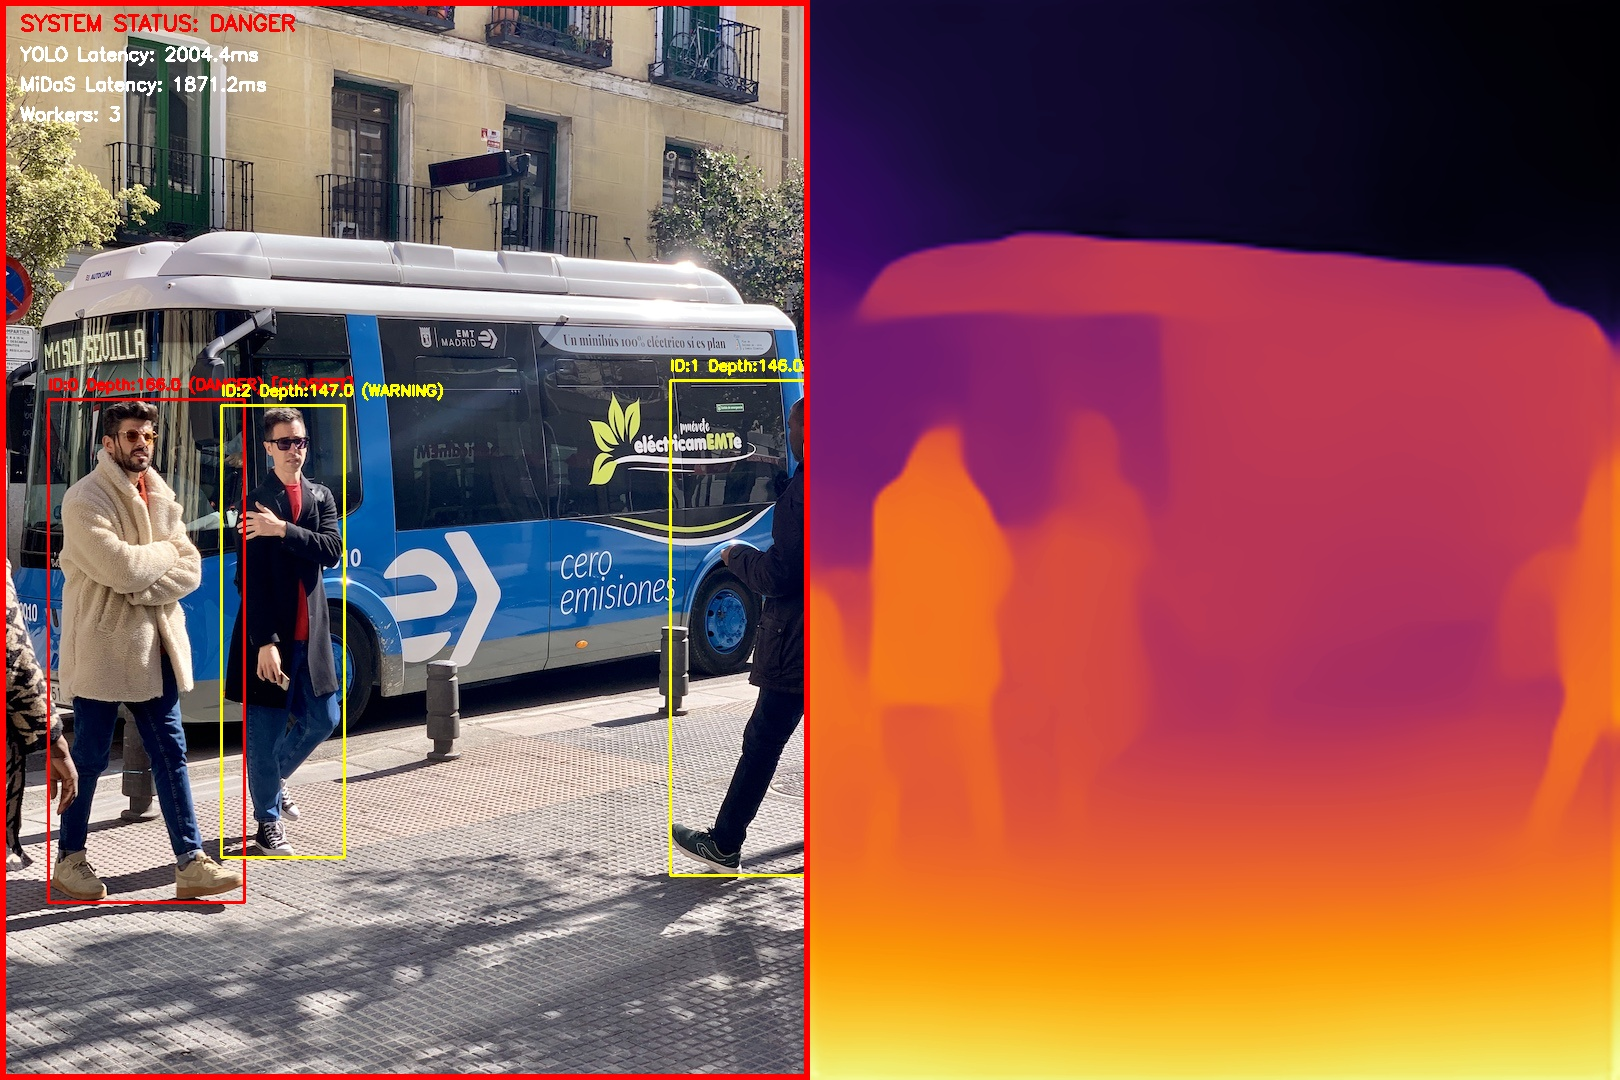
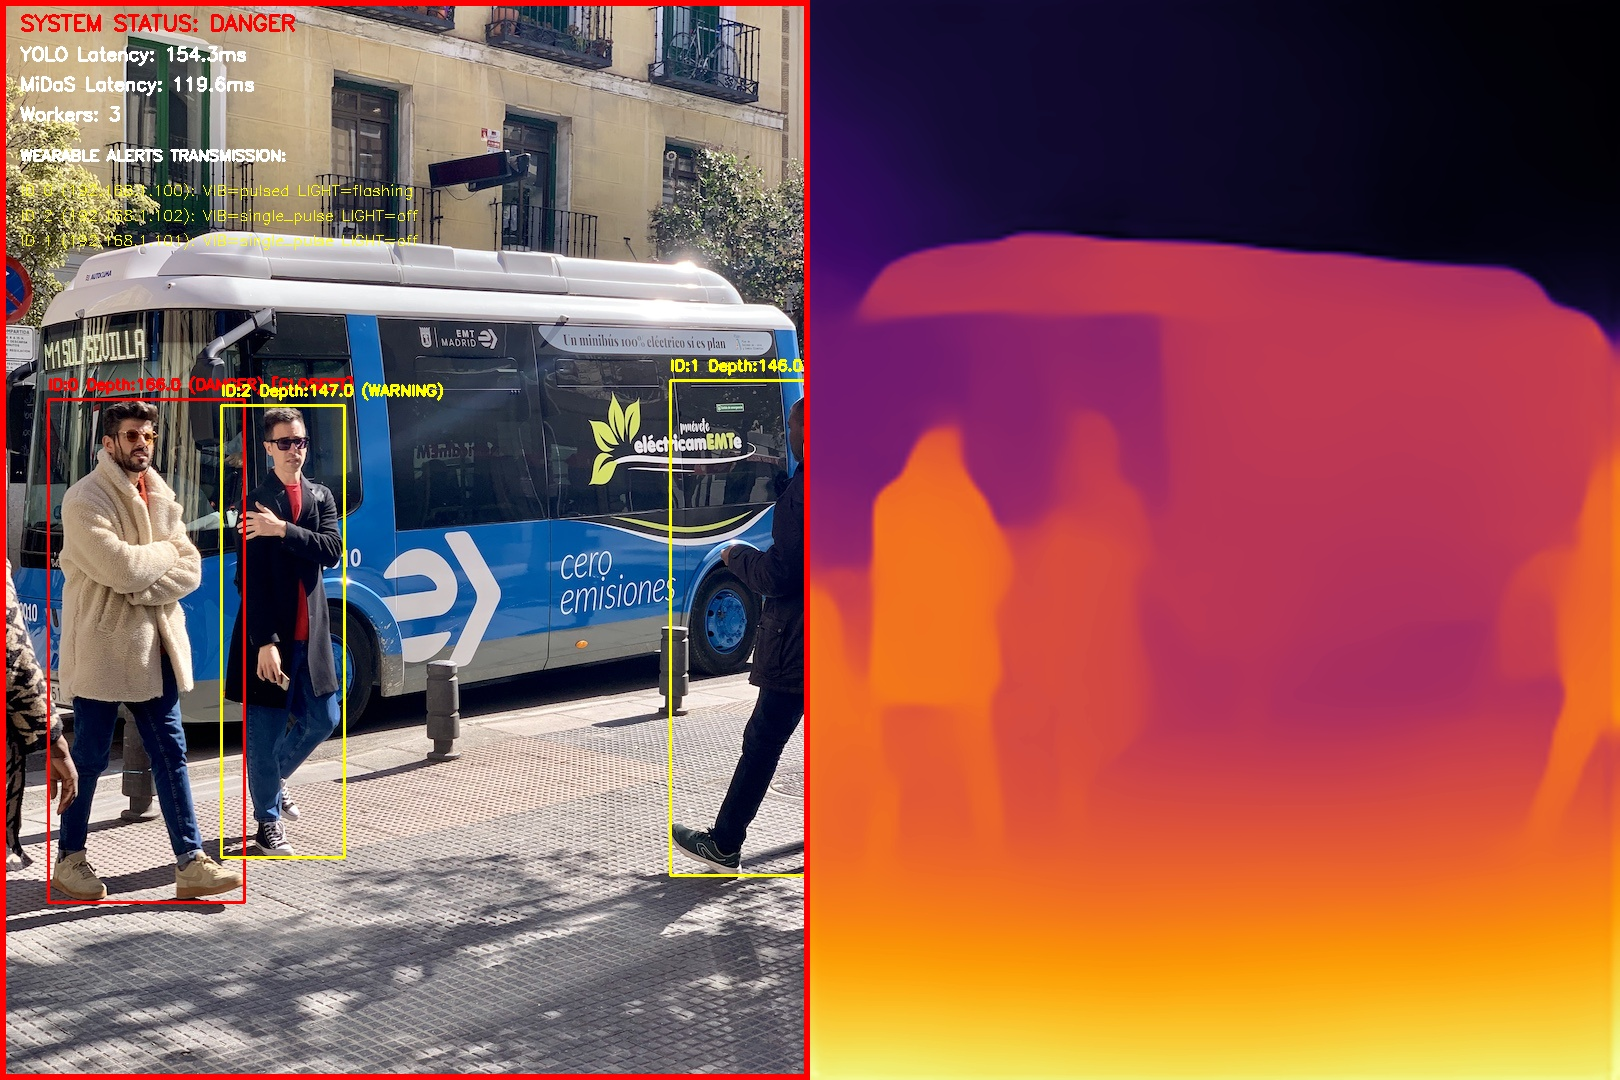
feat: add configuration schema, communication module, and pipeline verification script

Changed region(s): [[0.0, 0.1222, 0.2778, 0.2444], [0.0926, 0.0306, 0.1543, 0.0917]]

diff --git a/scripts/verify_pipeline.py b/scripts/verify_pipeline.py
@@ -99,12 +99,13 @@ def main():
         if fps_target <= 0:
             fps_target = 30
 
-    # Now load detector, depth, safety, and tracking models
+    # Now load detector, depth, safety, tracking, and communication models
     from modules.detector import WorkerDetector
     from modules.depth import DepthEstimator
     from modules.proximity import ProximityExtractor
     from modules.safety import SafetyZoneManager
     from modules.tracking import WorkerTracker
+    from modules.communication import WearableCommunicator
 
     detector = WorkerDetector(model_name=model_name, conf_threshold=conf_threshold, iou_threshold=iou_threshold, device=device)
     if not detector.load_model():
@@ -119,6 +120,7 @@ def main():
     proximity_extractor = ProximityExtractor()
     safety_manager = SafetyZoneManager(config.get("safety", {}))
     tracker = WorkerTracker(iou_threshold=0.3, depth_window_size=5, persistence_threshold=10)
+    wearable_communicator = WearableCommunicator(config.get("wearable", {}))
 
     # Run on static image
     if args.source != "webcam" and not args.source.endswith((".mp4", ".avi", ".mov", ".mkv")):
@@ -156,8 +158,9 @@ def main():
         # Evaluate overall system threat state
         system_state, actions = safety_manager.evaluate_system_state(workers)
 
-        # Annotate RGB frame with bounding boxes and safety zone labels
+        # Annotate RGB frame with bounding boxes, safety labels, and trigger wearable alerts
         annotated_frame = frame.copy()
+        simulated_alerts = []
         for i, worker in enumerate(workers):
             bbox = worker["bbox"]
             zone_info = safety_manager.evaluate_worker(worker)
@@ -170,7 +173,11 @@ def main():
             label = f"ID:{worker['id']} Depth:{worker['relative_depth']:.1f} ({zone_name}){tag}"
             cv2.putText(annotated_frame, label, (bbox[0], bbox[1] - 10), cv2.FONT_HERSHEY_SIMPLEX, 0.5, color, 2)
             
-            logger.info(f"Worker ID={worker['id']} | Zone={zone_name} | Relative-Depth={worker['relative_depth']:.1f} | Box={bbox} | Closest={is_closest}")
+            # Send simulated alert
+            alert = wearable_communicator.send_alert(worker["id"], zone_name)
+            simulated_alerts.append(alert)
+            
+            logger.info(f"Worker ID={worker['id']} | Zone={zone_name} | Depth={worker['relative_depth']:.1f} | IP={alert['device_ip']} | Vib={alert['vibration']} | Light={alert['light']} | Closest={is_closest}")
 
         # Apply static mock warning overlays for static visualization
         ah, aw = annotated_frame.shape[:2]
@@ -208,6 +215,15 @@ def main():
         cv2.putText(stacked, f"YOLO Latency: {latency_yolo:.1f}ms", (20, 60), cv2.FONT_HERSHEY_SIMPLEX, 0.6, (255, 255, 255), 2)
         cv2.putText(stacked, f"MiDaS Latency: {latency_midas:.1f}ms", (20, 90), cv2.FONT_HERSHEY_SIMPLEX, 0.6, (255, 255, 255), 2)
         cv2.putText(stacked, f"Workers: {len(workers)}", (20, 120), cv2.FONT_HERSHEY_SIMPLEX, 0.6, (255, 255, 255), 2)
+
+        # Draw Wearable alerts overlays
+        cv2.putText(stacked, "WEARABLE ALERTS TRANSMISSION:", (20, 160), cv2.FONT_HERSHEY_SIMPLEX, 0.5, (255, 255, 255), 2)
+        y_offset = 195
+        for alert in simulated_alerts:
+            if alert["zone"] != "SAFE":
+                alert_text = f"ID {alert['worker_id']} ({alert['device_ip']}): VIB={alert['vibration']} LIGHT={alert['light']}"
+                cv2.putText(stacked, alert_text, (20, y_offset), cv2.FONT_HERSHEY_SIMPLEX, 0.5, (0, 255, 255), 1)
+                y_offset += 25
 
         logger.info(f"YOLO latency: {latency_yolo:.1f}ms | MiDaS latency: {latency_midas:.1f}ms | Workers: {len(workers)} | System Status: {system_state}")
 
@@ -297,7 +313,8 @@ def main():
                 # Evaluate overall system threat state
                 system_state, actions = safety_manager.evaluate_system_state(workers)
 
-                # Annotate RGB frame with bounding boxes and safety zone labels
+                # Annotate RGB frame, trigger wearable alerts, and draw safety zone labels
+                simulated_alerts = []
                 for i, worker in enumerate(workers):
                     bbox = worker["bbox"]
                     zone_info = safety_manager.evaluate_worker(worker)
@@ -310,6 +327,10 @@ def main():
                     label = f"ID:{worker['id']} Depth:{worker['relative_depth']:.1f} ({zone_name}){tag}"
                     cv2.putText(frame, label, (bbox[0], bbox[1] - 10), 
                                 cv2.FONT_HERSHEY_SIMPLEX, 0.5, color, 2)
+                    
+                    # Trigger simulated wearable alert
+                    alert = wearable_communicator.send_alert(worker["id"], zone_name)
+                    simulated_alerts.append(alert)
                 
                 # Apply dynamic flashing overlays
                 flash_on = int(time.time() * 4) % 2 == 0
@@ -333,6 +354,7 @@ def main():
                 latency_midas = 0.0
                 system_state = "SAFE"
                 actions = {"sound_request": None, "log_request": False}
+                simulated_alerts = []
 
             # Colorize the cached/current depth map
             if cached_depth_map is not None:
@@ -369,6 +391,16 @@ def main():
             cv2.putText(stacked, f"MiDaS Latency: {latency_midas:.1f}ms", (20, 150), cv2.FONT_HERSHEY_SIMPLEX, 0.6, (255, 255, 255), 2)
             cv2.putText(stacked, f"Workers: {len(workers)}", (20, 180), cv2.FONT_HERSHEY_SIMPLEX, 0.6, (255, 255, 255), 2)
             cv2.putText(stacked, f"Decoupling Rate: {args.depth_freq}x", (20, 210), cv2.FONT_HERSHEY_SIMPLEX, 0.6, (255, 255, 255), 2)
+            
+            # Wearable alerts overlays
+            cv2.putText(stacked, "WEARABLE ALERTS TRANSMISSION:", (20, 250), cv2.FONT_HERSHEY_SIMPLEX, 0.5, (255, 255, 255), 2)
+            y_offset = 285
+            for alert in simulated_alerts:
+                if alert["zone"] != "SAFE":
+                    alert_text = f"ID {alert['worker_id']} ({alert['device_ip']}): VIB={alert['vibration']} LIGHT={alert['light']}"
+                    cv2.putText(stacked, alert_text, (20, y_offset), cv2.FONT_HERSHEY_SIMPLEX, 0.5, (0, 255, 255), 1)
+                    y_offset += 25
+            
             cv2.putText(stacked, "Press 'f' to toggle Fullscreen, 'q' to Quit", (20, sh - 20), cv2.FONT_HERSHEY_SIMPLEX, 0.5, (255, 255, 255), 1)
 
             frame_idx += 1
@@ -377,7 +409,9 @@ def main():
                 # Headless logging
                 if is_connected:
                     closest_text = f" | Closest Worker: ID={workers[0]['id']} Depth={workers[0]['relative_depth']:.1f} ({system_state})" if workers else ""
-                    logger.info(f"Pipeline Running - Workers: {len(workers)} | Status: {system_state} | FPS: {fps:.1f} | YOLO: {latency_yolo:.1f}ms | MiDaS: {latency_midas:.1f}ms{closest_text}")
+                    alert_details = ", ".join([f"ID {a['worker_id']} ({a['device_ip']})->{a['vibration']}/{a['light']}" for a in simulated_alerts if a['zone'] != 'SAFE'])
+                    alert_str = f" | Alerts: [{alert_details}]" if alert_details else ""
+                    logger.info(f"Pipeline Running - Workers: {len(workers)} | Status: {system_state} | FPS: {fps:.1f} | YOLO: {latency_yolo:.1f}ms | MiDaS: {latency_midas:.1f}ms{closest_text}{alert_str}")
                 time.sleep(0.01)
             else:
                 cv2.imshow(window_name, stacked)

diff --git a/modules/communication.py b/modules/communication.py
@@ -1,0 +1,92 @@
+import socket
+import json
+import logging
+
+logger = logging.getLogger(__name__)
+
+class WearableCommunicator:
+    def __init__(self, config=None):
+        """
+        Args:
+            config (dict): Configurations containing:
+                - base_ip (str): Starting IP address, e.g. '192.168.1.100'
+                - udp_host (str): loopback host to send simulated UDP packets to, default '127.0.0.1'
+                - udp_port (int): loopback port, default 5005
+        """
+        if config is None:
+            config = {}
+            
+        self.base_ip = config.get("base_ip", "192.168.1.100")
+        self.udp_host = config.get("udp_host", "127.0.0.1")
+        self.udp_port = config.get("udp_port", 5005)
+        
+        # Initialize UDP socket for loopback simulation
+        self.sock = socket.socket(socket.AF_INET, socket.SOCK_DGRAM)
+        logger.info(f"WearableCommunicator initialized. Base IP={self.base_ip}, "
+                    f"UDP Target={self.udp_host}:{self.udp_port}")
+
+    def get_device_ip(self, worker_id):
+        """
+        Maps worker tracker ID to simulated IP address dynamically.
+        """
+        try:
+            octets = self.base_ip.split(".")
+            prefix = ".".join(octets[:3])
+            last_octet = int(octets[3])
+            return f"{prefix}.{last_octet + worker_id}"
+        except Exception as e:
+            logger.warning(f"Error calculating IP for worker ID {worker_id}: {e}. Falling back to base IP.")
+            return self.base_ip
+
+    def send_alert(self, worker_id, zone):
+        """
+        Simulates sending warning alert signals to the worker's wearable device.
+        Actual JSON commands are sent via local loopback UDP socket.
+        
+        Args:
+            worker_id (int): Persistent tracker ID.
+            zone (str): Threat zone ('SAFE', 'WARNING', 'DANGER', 'CRITICAL').
+            
+        Returns:
+            dict: The simulated alert packet payload.
+        """
+        device_ip = self.get_device_ip(worker_id)
+        
+        # Map safety zone status to device actions
+        if zone == "WARNING":
+            vibration = "single_pulse"
+            light = "off"
+            sound = "off"
+        elif zone == "DANGER":
+            vibration = "pulsed"
+            light = "flashing"
+            sound = "off"
+        elif zone == "CRITICAL":
+            vibration = "continuous_high"
+            light = "flashing_red"
+            sound = "on"
+        else:  # SAFE
+            vibration = "off"
+            light = "off"
+            sound = "off"
+
+        payload = {
+            "worker_id": worker_id,
+            "device_ip": device_ip,
+            "zone": zone,
+            "vibration": vibration,
+            "light": light,
+            "sound": sound
+        }
+
+        # Transmit UDP message locally if not SAFE
+        if zone != "SAFE":
+            try:
+                msg = json.dumps(payload).encode("utf-8")
+                self.sock.sendto(msg, (self.udp_host, self.udp_port))
+                logger.debug(f"Simulated UDP Alert Sent -> {device_ip}: {payload}")
+            except Exception as e:
+                # Capture transmission failure cleanly without stopping the pipeline
+                logger.debug(f"Failed to transmit simulated UDP packet to {self.udp_host}:{self.udp_port}: {e}")
+
+        return payload
